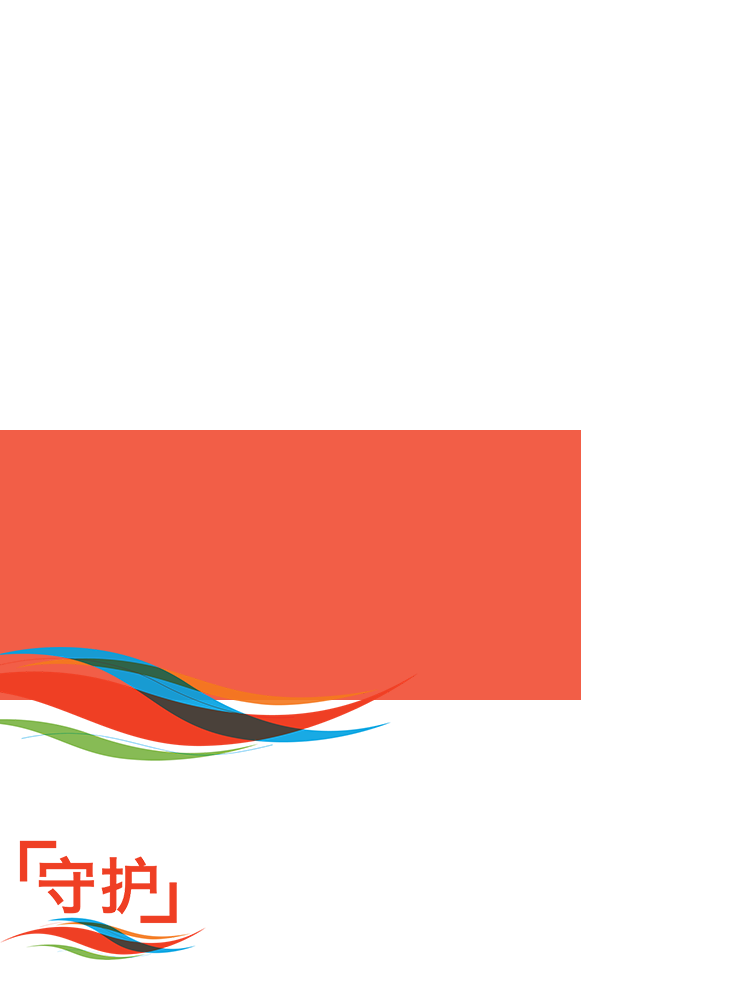
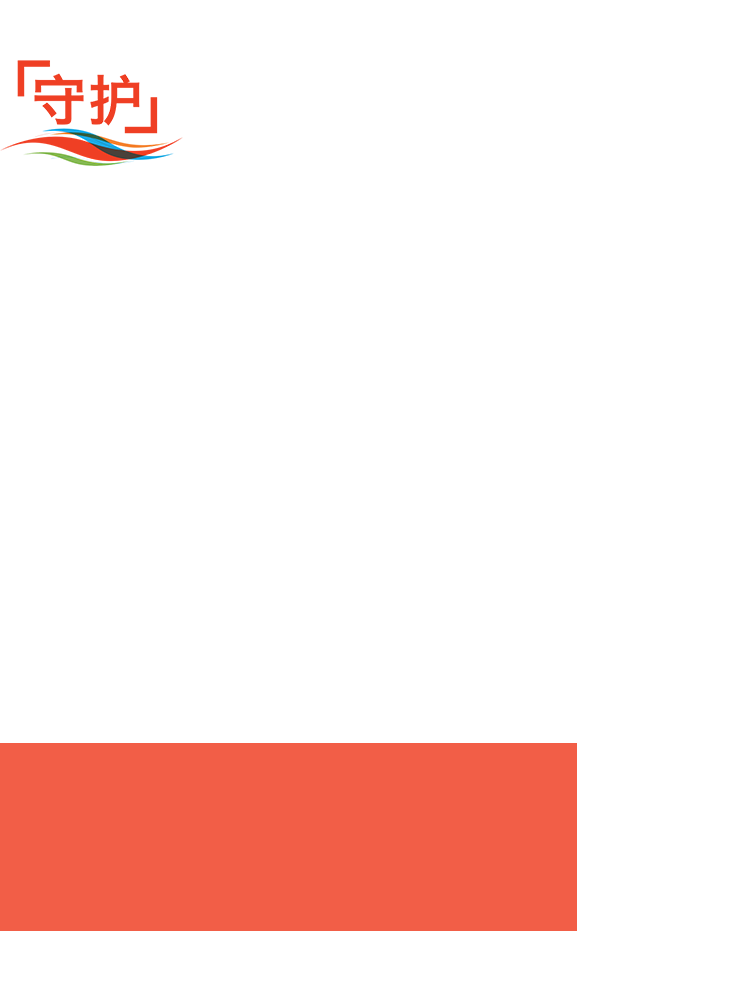
change picture

diff --git a/src/components/takePicture.vue b/src/components/takePicture.vue
@@ -193,12 +193,12 @@ export default {
               }
           }else{
             //保存生成作品图片
-            let info = '我的'+self.textTitle;
-            ctx.font="19px Verdana";
-            // 用渐变填色
-            ctx.fillStyle='#fff';
+            // let info = '我的'+self.textTitle;
+            // ctx.font="19px Verdana";
+            // // 用渐变填色
+            // ctx.fillStyle='#fff';
 
-            ctx.fillText(info,20,270);
+            // ctx.fillText(info,20,270);
 
             let text = self.textInfo;
             ctx.font="15px Verdana";
@@ -209,10 +209,10 @@ export default {
               let text1= text.substring(0,i);
               let text2= text.substring(i,text.length);
               console.log(text1, text2);
-              ctx.fillText(text1,20,300);
-              ctx.fillText(text2,20,320);
+              ctx.fillText(text1,20,410);
+              ctx.fillText(text2,20,430);
             } else{
-              ctx.fillText(text,20,300);
+              ctx.fillText(text,20,410);
             }
             self.convertCanvasToImage(c);
             // Canvas2Image.saveAsJPEG(c); //保存到电脑
